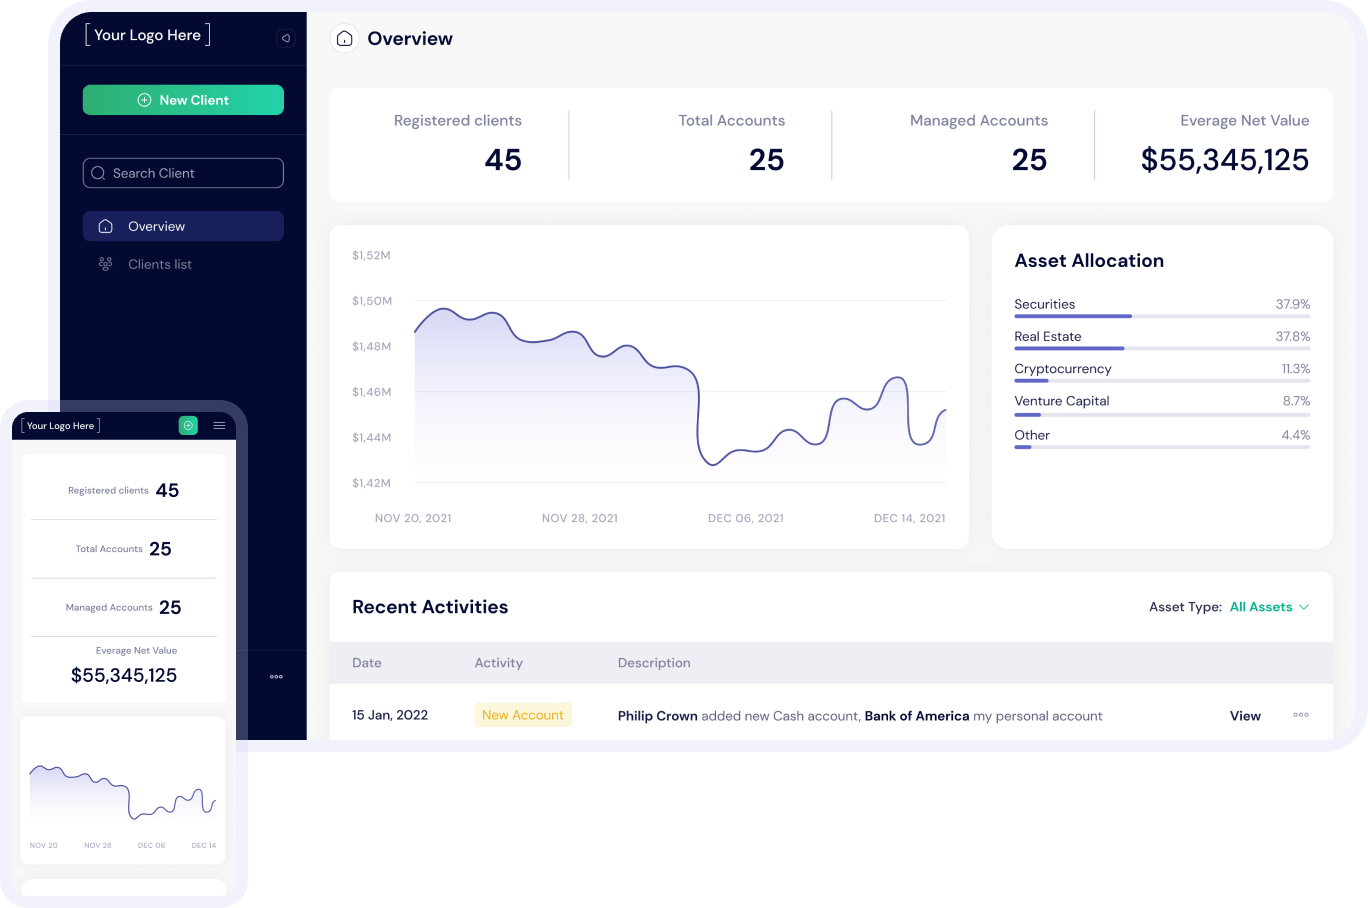
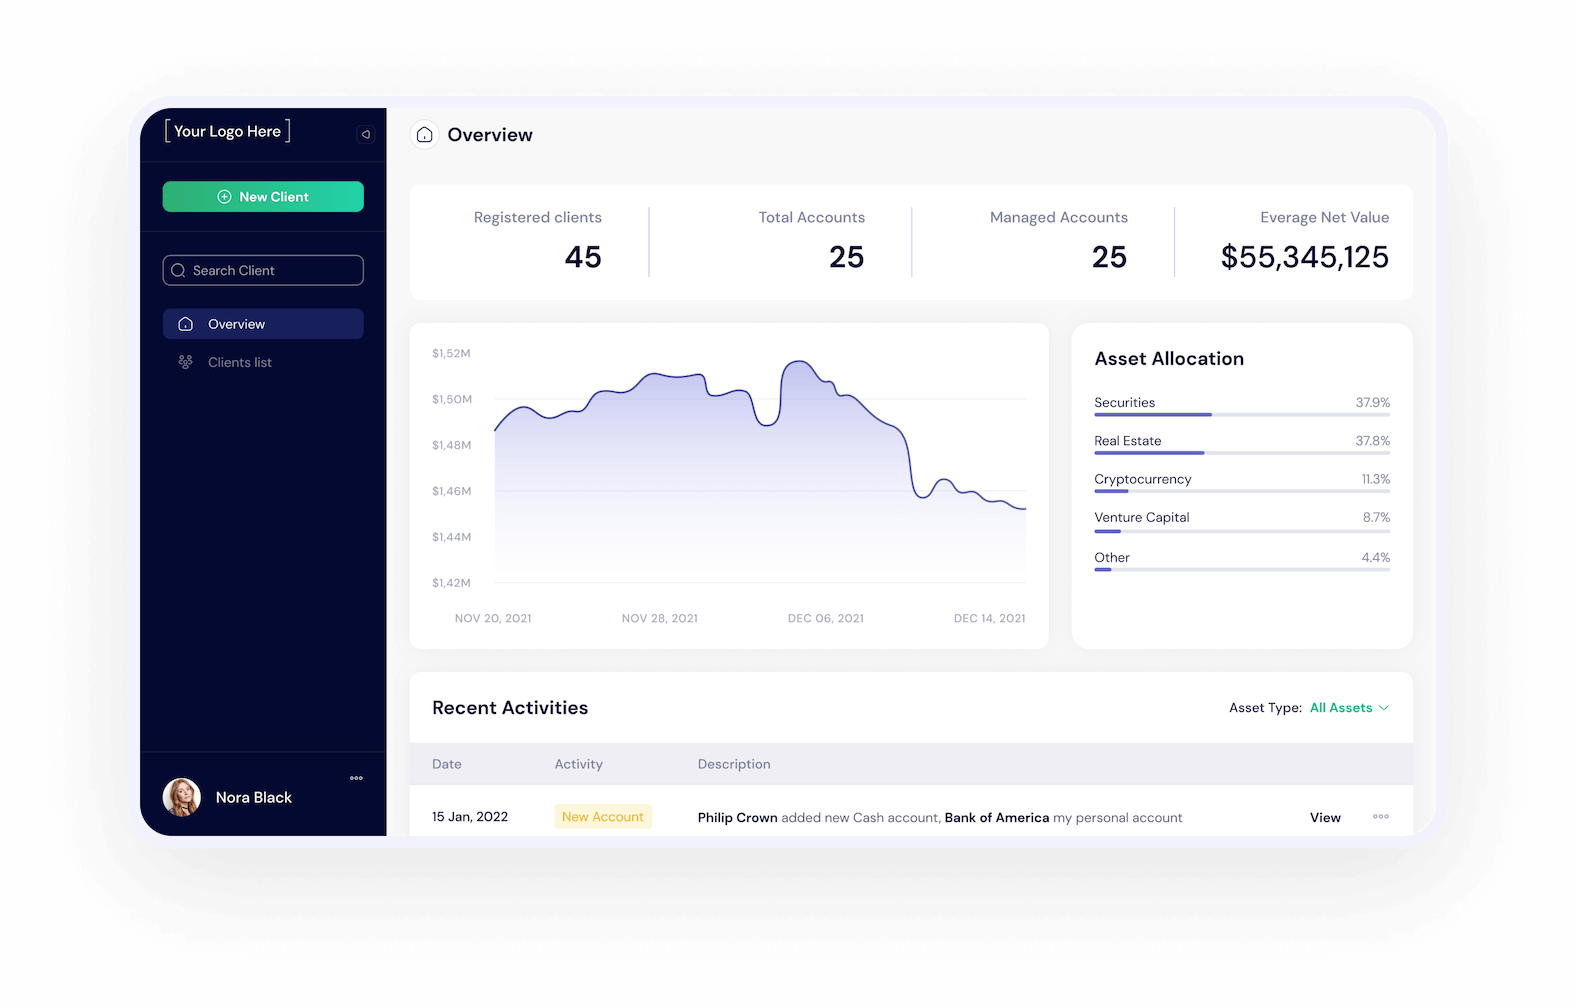
images

diff --git a/themes/clearvalue/layouts/partials/header.html b/themes/clearvalue/layouts/partials/header.html
@@ -36,9 +36,9 @@
         </div>
         <div class="col col-xl-4">
             <div class="header-auth">
-<!--                <div class="advisors-login">-->
-<!--                    <a href="https://app.claritus.io/login" class="advisors-login__link">Advisors Log In</a>-->
-<!--                </div>-->
+                <div class="advisors-login">
+                    <a href="https://app.claritus.io/advisors-login" class="advisors-login__link">Advisors Log In</a>
+                </div>
 
                 <a href="https://app.claritus.io/login" class="header-auth__btn btn btn--secondary">
                     <span class="btn__first-layer"></span>

diff --git a/themes/clearvalue/layouts/claritus-for-advisors/single.html b/themes/clearvalue/layouts/claritus-for-advisors/single.html
@@ -68,7 +68,8 @@
     </div>
 
     <picture data-iesrc="{{ .Params.experienceImgFullHd }}" class="experience-picture lozad">
-        <source srcset="{{ .Params.experienceImgFullHd }}" media="(min-width: 1152px)"/>
+        <source srcset="{{ .Params.experienceImgFullHd }}" media="(min-width: 1400px)"/>
+        <source srcset="{{ .Params.experienceImgDesktop }}" media="(min-width: 1152px)"/>
         <source srcset="{{ .Params.experienceImgTablet }}" media="(min-width: 300px)"/>
     </picture>
 </section>

diff --git a/themes/clearvalue/assets/scss/layout/_claritus-for-advisors.scss b/themes/clearvalue/assets/scss/layout/_claritus-for-advisors.scss
@@ -284,7 +284,7 @@ section.experience-section {
     margin-left: auto;
   
     @media (min-width: map_get($grid-breakpoints, xl)) {
-        max-width: rem(580);
+        max-width: rem(532);
     }
 }
 

diff --git a/content/claritus-for-advisors.md b/content/claritus-for-advisors.md
@@ -41,6 +41,7 @@ experienceText: Claritus for Advisors is designed to provide financial advisors 
 experienceAfter: Schedule a demo today to learn more about Claritus for Advisor
 
 experienceImgFullHd: /images/experience-fullhd.png
+experienceImgDesktop: /images/experience-desktop.png
 experienceImgTablet: /images/experience-tablet.png
 
 ## Request a demo
